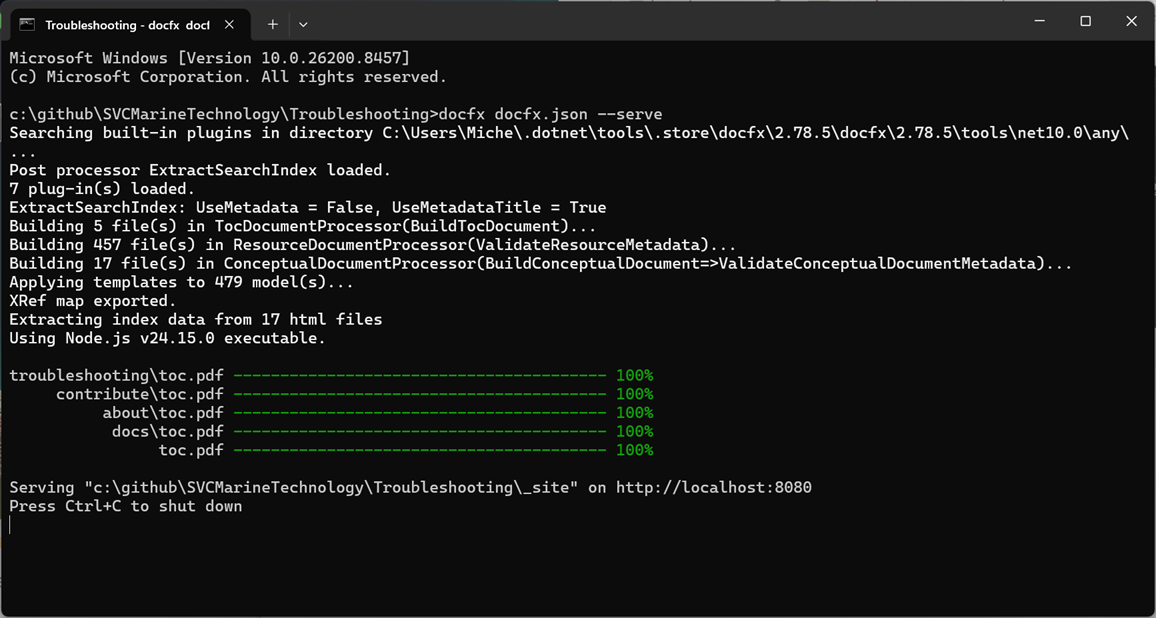
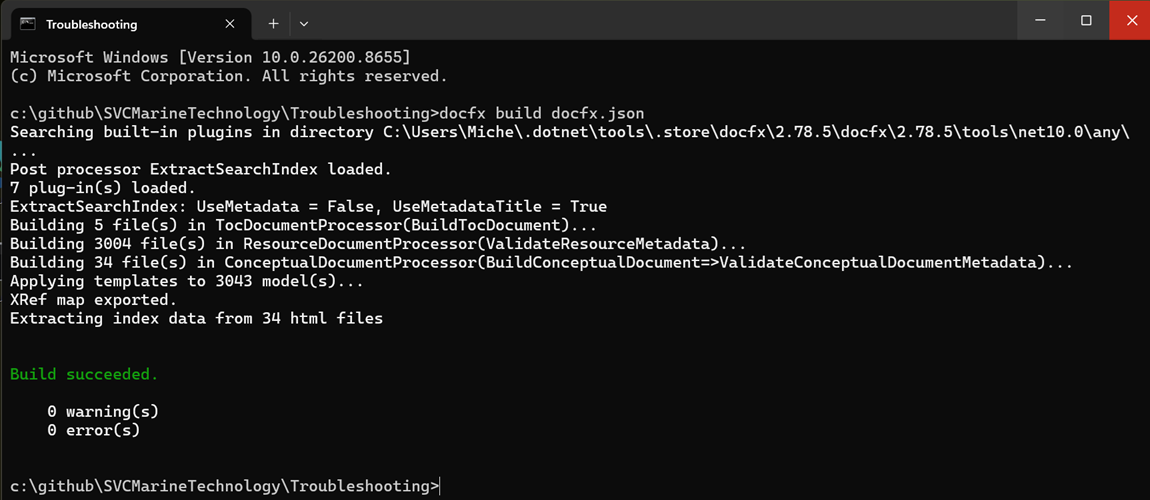
updated contribution procedures (#12)

Changed region(s): [[0.0, 0.0, 1.0, 0.87], [0.0, 0.96, 1.0, 1.0]]

diff --git a/contribute/create-branch.md b/contribute/create-branch.md
@@ -33,53 +33,6 @@ In order to contribute changes to the repo, you'll need to create a branch to st
    >
    > By convention prefix the branch with your user name and a forward slash and then choose a branch name that reflects the changes you're making.  In this example, we're creating a branch for changes to the repo contribution procedures.
 
-## [macOS Only] Create a GitHub Personal Access Token
-
-If you're on macOS, you'll need to create a GitHub Personal Access Token (PAT) in order to authenticate with GitHub.  If you don't, you'll be prompted for a username & password when you run the command in the next section.  However, this won't work because GitHub removed password authentication some time ago.
-
-Complete the following procedures to create and use your PAT:
-
-### Create a PAT
-
-1. Open a browser to the [Troubleshooting](https://github.com/SVCMarineTechnology/Troubleshooting) repo
-
-2. Click your profile picture (upper right) and select **Settings**
-
-3. In the left sidebar, click **Developer settings**
-
-4. Under **Personal access tokens**, click **Tokens (classic)**
-
-5. click **Generate new token (classic) ** and authenticate if needed
-
-6. Enter parameters as follows 
-
-   | Parameter     | Example Value                           | Comments                                                     |
-   | ------------- | --------------------------------------- | ------------------------------------------------------------ |
-   | Note          | MacBookPro - Git Push - Troubleshooting | Enter whatever you like but it's best to use a name so that you know what it's for and where it's used.  The convention used here is: MACHINE-PURPOSE-SCOPE |
-   | Expiration    | Custom: 05/28/2027                      | You can create a PAT with no expiration but it's a best practice not to.  The suggestion is to choose 'Custom' and enter a date one year from now. |
-   | Select scopes | (select **repo**)                       | Selecting **repo** also selects all of the boxes under the **repo** label.  This gives you full access to the repo. |
-
-7. Click **Generate token**.
-
-8. Copy the PAT that's generated for you:
-
-   ![](images/create-branch-copy-pat.png)
-
-## Use your PAT
-
-In the next section when you run `git push` you'll be prompted for credentials.  When you are, enter the following parameters:
-
-| Parameter | Example Value                                      | Comments                          |
-| --------- | -------------------------------------------------- | --------------------------------- |
-| Username  | (enter your GitHub username)                       |                                   |
-| Password  | (paste the PAT you copied in the previous section) | Do NOT enter your GitHub password |
-
-Git will store the new token in Keychain.  You should not be prompted for credentials again (at least until your PAT expires). 
-
-Use these notes to complete the instructions in the next section.
-
-For additional information see:<br>[Managing your personal access tokens](https://docs.github.com/en/authentication/keeping-your-account-and-data-secure/managing-your-personal-access-tokens)
-
 ## Set the Upstream Branch
 
 Before we can push changes we need to associate the local branch we just created with a corresponding branch in the GitHub repo.  Complete the following procedure to do so.

diff --git a/contribute/run-docfx.md b/contribute/run-docfx.md
@@ -10,14 +10,16 @@ This means it's important that, before we complete a PR, we've checked our conte
 >
 > You should definitely verify your content using DocFX before you put a PR up for review.  But it's also a good idea to periodically do this as you write your content so you find errors as early as possible.
 
-## Run DocFX
+## Build Markdown Files
+
+We're going to start by using DocFX to build our Markdown files into the HTML that is rendered on our GitHub pages site.  Complete the following steps to do so.
 
 1. Open a [Troubleshooting](https://github.com/SVCMarineTechnology/Troubleshooting) command prompt.
 
 2. Execute
 
    ```
-   docfx docfx.json --serve
+   docfx build docfx.json
    ```
 
    you should see something like this:
@@ -44,13 +46,33 @@ This is just one example, but it's pretty typical of the warnings that might be 
 
 Even if there are no DocFX warnings, it's possible that the generated HTML doesn't render properly.  Something as simple as a space in the wrong place can cause formatting issues.  Before you consider your content done, open the troubleshooting guide and visually check the pages you modified to ensure they look as expected.  You can do that by completing these steps:
 
-1. Open a browser to http://localhost:8080
+1. In the same command prompt execute:
 
-   You can see this tip in the output of the DocFX command we ran earlier:
+   ```powershell
+   docfx serve _site
+   ```
+
+   you should see something like this:
+
+   ![](images/run-docfx-docfx-serve.png)
+
+   > [!NOTE]
+   >
+   > The `.\_site` folder is what gets created by `docfx build`.  These are the static HTML pages that DocFX generates from our Markdown files. `docfx serve` just hosts the HTML files in a local web server so you can view them on your machine.
+
+1. Open a browser to the URL that `docfx serve` writes to the console: http://localhost:8080
+
+   You can find this URL in the output of the DocFX command we just ran:
 
    ![](images/run-docfx-verify-docfx-output.png)
 
+   you should see something like this:
 
+   ![](images/run-docfx-locally-rendered-site.png)
 
+   This is a locally rendered version of the content that we publish in our GitHub Pages site: [Marine Maintenance Technology: Troubleshooting Guides](https://svcmarinetechnology.github.io/Troubleshooting/).  We can use this to verify our content is rendering correctly before we merge changes into the `main` branch.
 
+1. Click through the locally rendered site to verify that any changes you made have been rendered correctly.
+
+When you can build your Markdown files without warning and you verify they're rendered properly, then you're ready to push changes and create a pull request.
 

diff --git a/contribute/install-mac.md b/contribute/install-mac.md
@@ -51,18 +51,19 @@ For additional information see:<br>[Git - Install for macOS](https://git-scm.com
 
 ## Install Git Credential Manager
 
-Git Credentials Manager is needed to simplify authentication to GitHub.  Without it, it's necessary to go through a relatively complicated procedure to create and install a personal access token (PAT).
+Git Credentials Manager is needed to simplify authentication to GitHub.  It eliminates the need to repeatedly enter a username and personal access token (PAT) by securely storing your credentials and automatically providing them when required.
 
 Complete the following steps to install the credential manager:
 
-1. In **Terminal** execute the following commands:
+1. Download and double-click the [installation package](https://github.com/git-ecosystem/git-credential-manager/releases/latest) and follow the instructions presented.
 
-   ```powershell
-   brew install --cask git-credential-manager
-   git-credential-manager configure
-   ```
-
-Now, when you run `git push` for the first time, a GitHub login window will appear allowing you to login with your GitHub username and password.
+   > [!TIP]
+   >
+   > When you open this link you'll need to download the package that's appropriate for your operating system and architecture.  For example, assuming the latest version is 2.8.0, the correct package file for macOS on arm64 is:
+   >
+   > ![](images/install-mac-git-credential-manager-package.png)
+   
+   Now, when you run `git push` for the first time, a GitHub login window will appear allowing you to login with your GitHub username and password.  The Git Credential Manager will take care of caching your credentials and automatically presenting them to GitHub on subsequent `push` requests.
 
 For additional information see:<br>[Git Credential Manager Installation](https://github.com/git-ecosystem/git-credential-manager/blob/main/docs/install.md)
 
